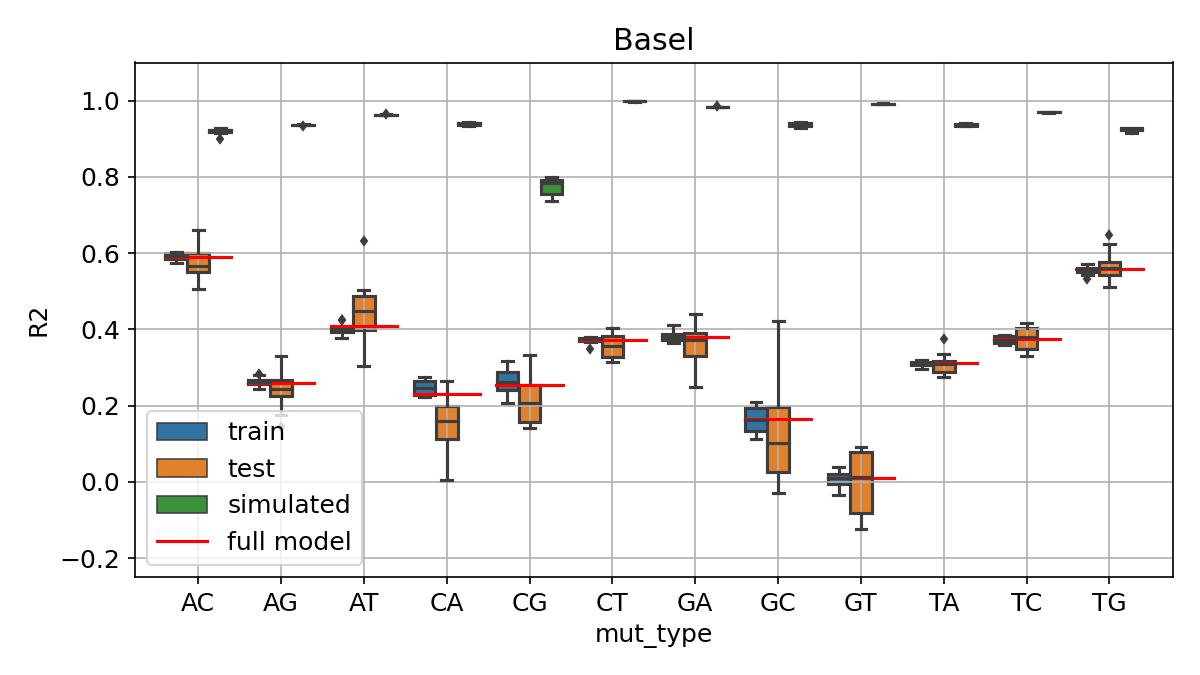
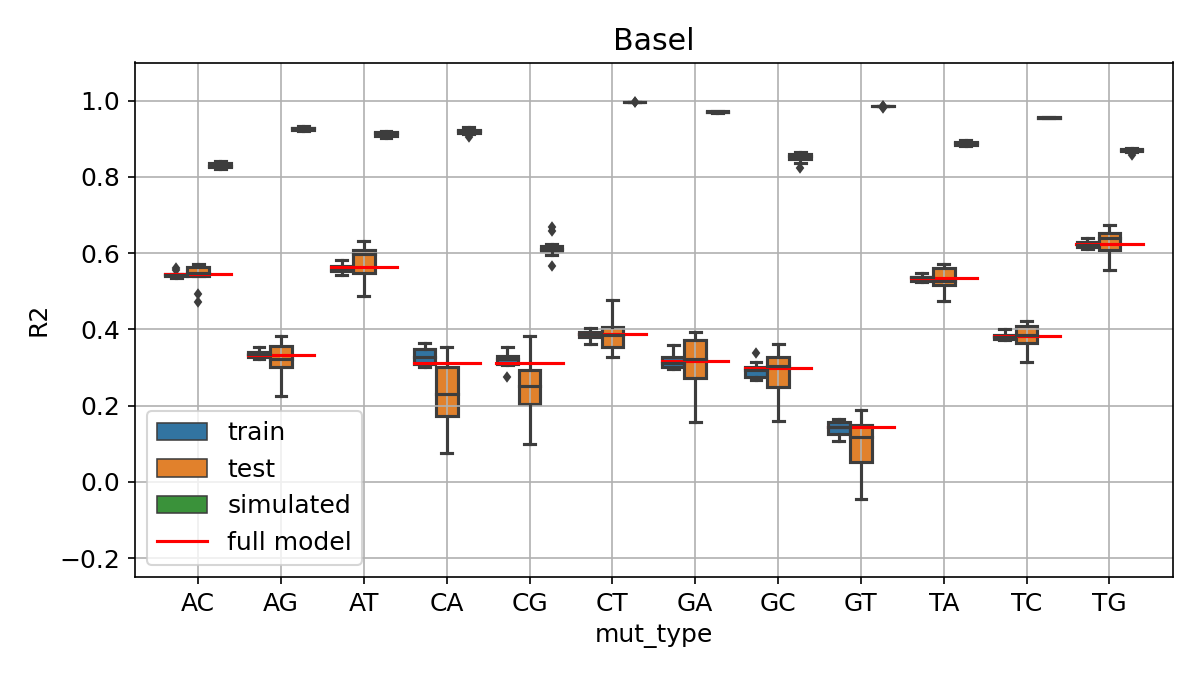
Fix regularization problem

diff --git a/scripts/plot_r2s.py b/scripts/plot_r2s.py
@@ -148,13 +148,20 @@ def compare_basel_vs_seattle_predictions(show_log_counts=True):
         seattle_predictions = rates_df.prefered_rate.values
 
         # Get Basel predictions
-        rates_df = model.basel_model_full.add_predictions(rates_df.copy())
+        rates_df = model.basel_model_full.add_predictions(rates_df.copy()).reset_index(drop=True)
         basel_predictions = rates_df.predicted_count_basel.values
 
         # Plot log counts if desired
         if show_log_counts:
             seattle_predictions = np.log(seattle_predictions)
             basel_predictions = np.log(basel_predictions)
+
+        # List 10 biggest discrepancies
+        diff = seattle_predictions - basel_predictions
+        indices = np.argsort(diff)[-10:]
+        outliers = rates_df.loc[indices, ['motif', 'partition', 'basepair']]
+        print(f'10 biggest discrepancies between Basel and Seattle for {mut_type}:')
+        print(outliers)
 
         # Make scatter plot
         ax.scatter(seattle_predictions, basel_predictions, alpha=0.6, edgecolor='black')

diff --git a/scripts/basel_model.py b/scripts/basel_model.py
@@ -42,7 +42,9 @@ class BaselModel:
 
             # Perform least squares regression with l2 regularization
             reg_strength = 0.1
-            w = np.linalg.inv(X.T @ X + reg_strength * np.identity(X.shape[1])) @ X.T @ y
+            reg_mat = reg_strength * np.identity(X.shape[1])
+            reg_mat[0, 0] = 0  # Don't regularize the offset term
+            w = np.linalg.inv(X.T @ X + reg_mat) @ X.T @ y
             self.W[nt1+nt2] = w
 
         # Plot observed vs. predicted mean log(counts + 0.5) for every context and pairing state
